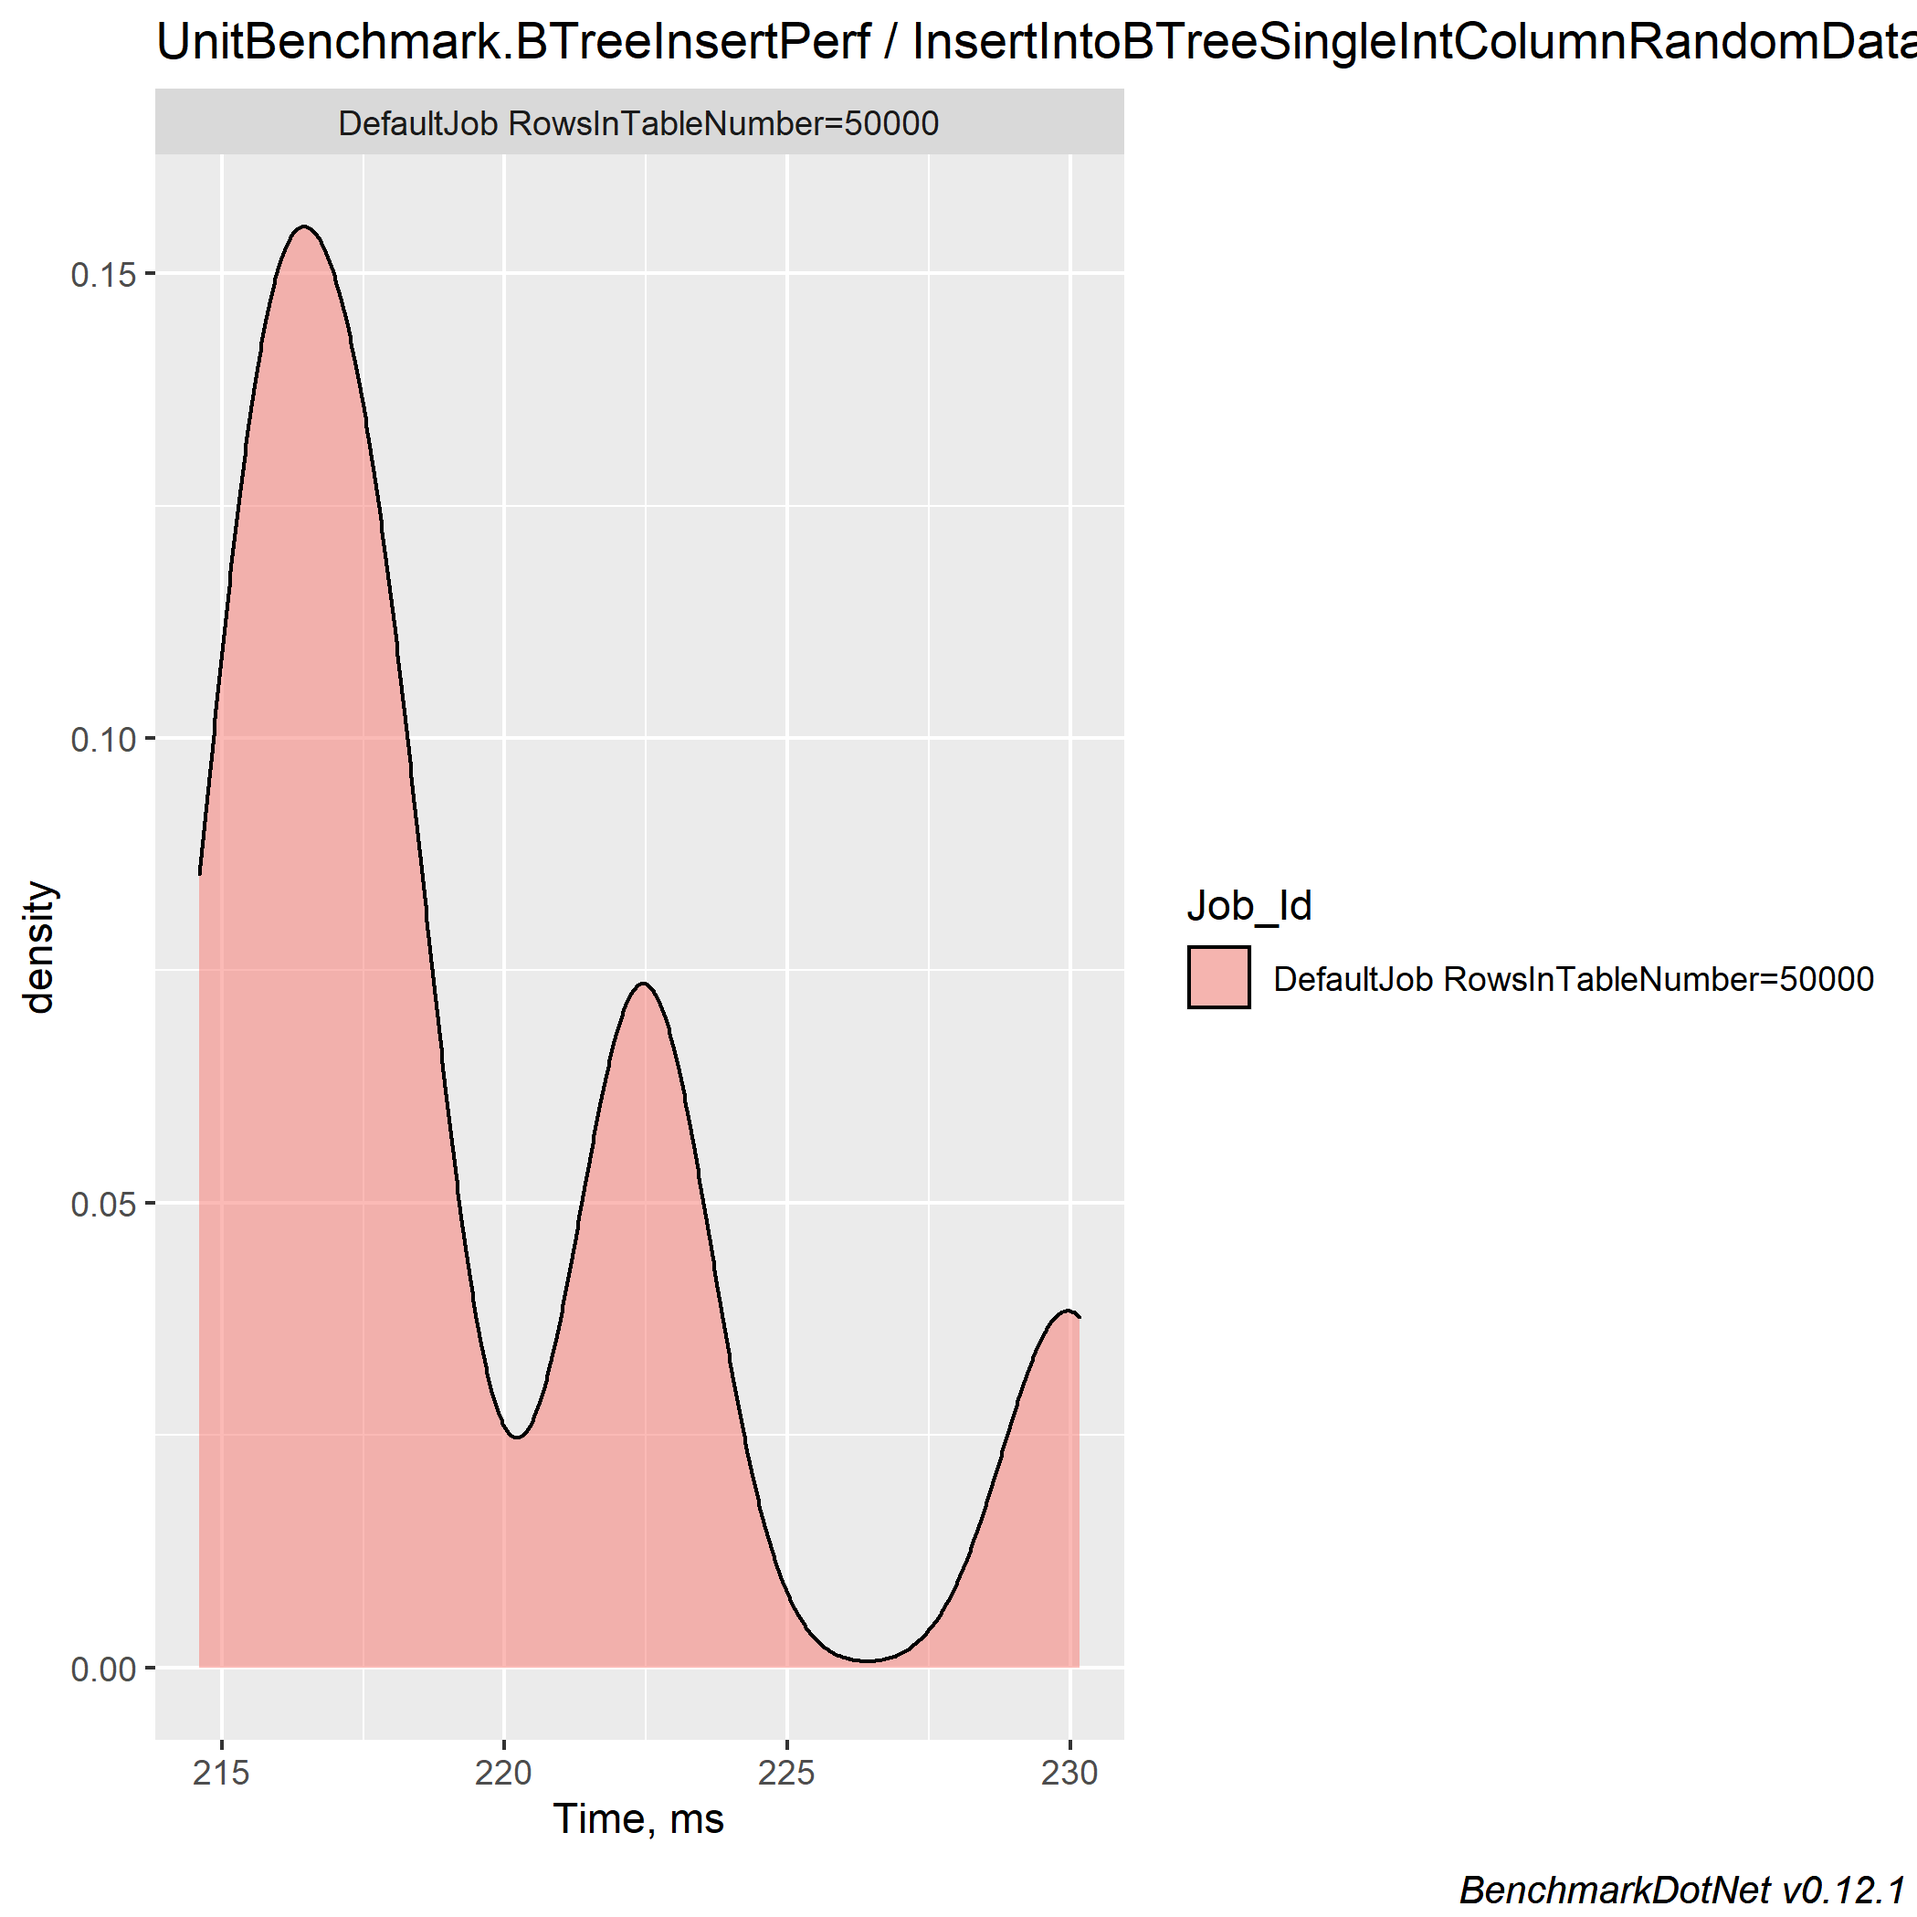
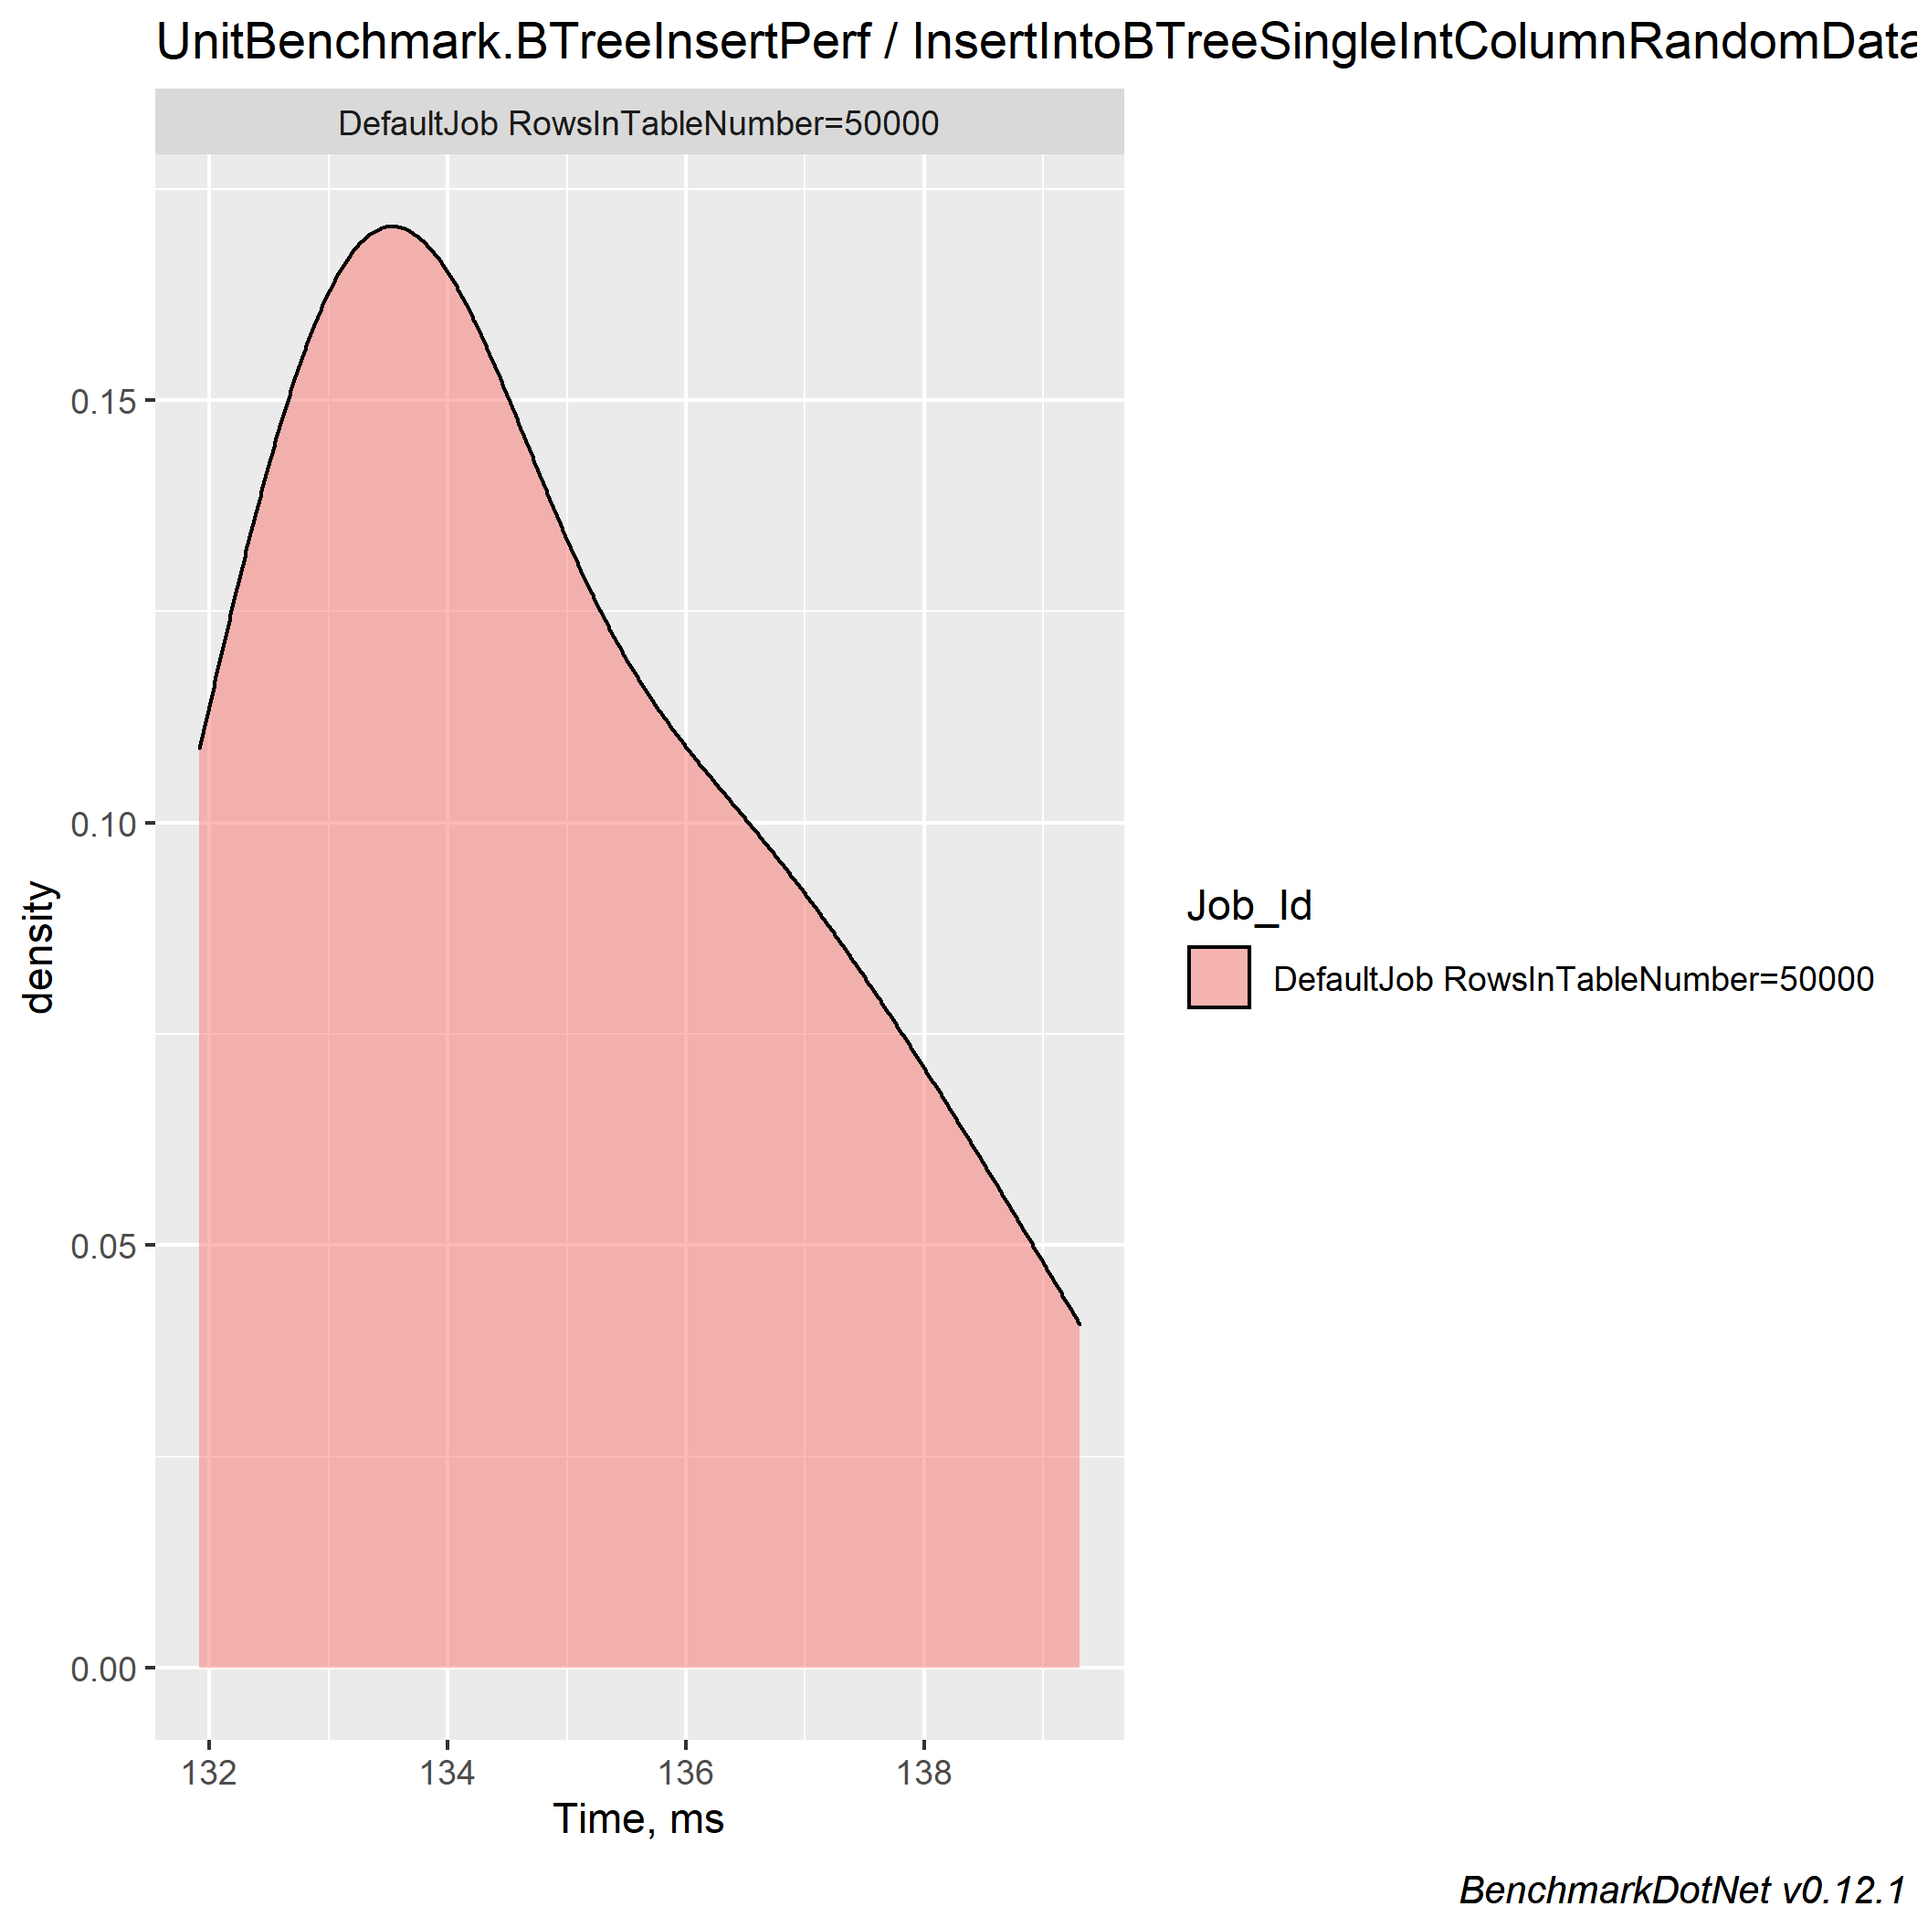
Insert ordered perf optim

diff --git a/UnitBenchmark/BenchmarkDotNet.Artifacts/results/UnitBenchmark.BTreeInsertPerf-report.html b/UnitBenchmark/BenchmarkDotNet.Artifacts/results/UnitBenchmark.BTreeInsertPerf-report.html
@@ -2,7 +2,7 @@
 <html lang='en'>
 <head>
 <meta charset='utf-8' />
-<title>UnitBenchmark.BTreeInsertPerf-20211211-191430</title>
+<title>UnitBenchmark.BTreeInsertPerf-20211212-161400</title>
 
 <style type="text/css">
 	table { border-collapse: collapse; display: block; width: 100%; overflow: auto; }
@@ -24,9 +24,9 @@ AMD Ryzen 5 1600X, 1 CPU, 12 logical and 6 physical cores
 <table>
 <thead><tr><th>                            Method</th><th>RowsInTableNumber</th><th>Mean</th><th>Error</th><th>StdDev</th>
 </tr>
-</thead><tbody><tr><td>InsertIntoBTreeSingleIntColumnRandomData</td><td>50000</td><td>219.4 ms</td><td>4.38 ms</td><td>4.68 ms</td>
-</tr><tr><td>InsertIntoBTreeSingleIntColumnRandomData</td><td>100000</td><td>487.0 ms</td><td>3.34 ms</td><td>2.79 ms</td>
-</tr><tr><td>InsertIntoBTreeSingleIntColumnRandomData</td><td>200000</td><td>1,200.3 ms</td><td>5.32 ms</td><td>4.45 ms</td>
+</thead><tbody><tr><td>InsertIntoBTreeSingleIntColumnRandomData</td><td>50000</td><td>134.7 ms</td><td>2.15 ms</td><td>2.21 ms</td>
+</tr><tr><td>InsertIntoBTreeSingleIntColumnRandomData</td><td>100000</td><td>315.2 ms</td><td>5.77 ms</td><td>5.12 ms</td>
+</tr><tr><td>InsertIntoBTreeSingleIntColumnRandomData</td><td>200000</td><td>868.2 ms</td><td>3.62 ms</td><td>3.39 ms</td>
 </tr></tbody></table>
 </body>
 </html>

diff --git a/PageManager/RowsetHolder.cs b/PageManager/RowsetHolder.cs
@@ -36,7 +36,8 @@ namespace PageManager
 
         private ushort rowCount;
 
-        private static readonly CompareWithRowHolderCreator compareWithRowHolderCreator = new CompareWithRowHolderCreator();
+        private static readonly CompareWithRowHolderCreator s_compareWithRowHolderCreator = new CompareWithRowHolderCreator();
+        private static readonly GetRowOrderedPosition s_getRowOrderedPosition = new GetRowOrderedPosition();
 
         public RowsetHolder(ColumnInfo[] columnTypes, Memory<byte> storage, bool init)
         {
@@ -108,11 +109,18 @@ namespace PageManager
             }
         }
 
-        public int CompareFieldWithRowHolder(int row, int col, RowHolder rh, ColumnInfo ci)
+        public static int CompareFieldWithRowHolder(int row, int col, RowHolder rh, ColumnInfo ci, RowsetHolder rs)
         {
             return ColumnTypeHandlerRouter<Func<int, int, RowHolder, ColumnInfo, RowsetHolder, int>>.Route(
-                compareWithRowHolderCreator,
-                ci.ColumnType)(row, col, rh, ci, this);
+                s_compareWithRowHolderCreator,
+                ci.ColumnType)(row, col, rh, ci, rs);
+        }
+
+        public static int InsertRowOrderedPosition(int col, RowHolder rh, ColumnInfo ci, RowsetHolder rs)
+        {
+            return ColumnTypeHandlerRouter<Func<int, RowHolder, RowsetHolder, int>>.Route(
+                s_getRowOrderedPosition,
+                ci.ColumnType)(col, rh, rs);
         }
 
         public void GetRow(int row, ref RowHolder rowHolder)
@@ -160,22 +168,9 @@ namespace PageManager
 #endif
 
             // find the first element that is bigger than one to insert.
-            // TODO: binary search here.
-            int positionToInsert = -1;
+            int positionToInsert = InsertRowOrderedPosition(comparisonField, rowHolderToInsert, columnTypes[comparisonField], this);
 
-            for (int i = 0; i < this.rowCount; i++)
-            {
-                if (this.CompareFieldWithRowHolder(i, comparisonField, rowHolderToInsert, columnTypes[comparisonField]) != -1)
-                {
-                    positionToInsert = i;
-                    break;
-                }
-            }
-
-            if (positionToInsert == -1)
-            {
-                positionToInsert = this.rowCount;
-            }
+            Debug.Assert(positionToInsert >= 0 && positionToInsert <= this.rowCount);
 
             if (BitArray.IsSet(positionToInsert, this.storage.Span))
             {
@@ -552,6 +547,42 @@ namespace PageManager
         }
 
         public Func<int, int, RowHolder, ColumnInfo, RowsetHolder, int> HandleString()
+        {
+            throw new NotImplementedException();
+        }
+    }
+
+    public class GetRowOrderedPosition: ColumnTypeHandlerBasicSingle<Func<int /* column */, RowHolder /* row holder to insert */, RowsetHolder, int>>
+    {
+        public Func<int, RowHolder, RowsetHolder, int> HandleDouble()
+        {
+            return (col, rh, rs) =>
+            {
+                if (rs.GetRowCount() == 0)
+                {
+                    return 0;
+                }
+
+                double fieldFromRowHolder = rh.GetField<double>(col);
+                return rs.BinarySearchFindOrBiggestSmaller<double>(fieldFromRowHolder, col, 0, rs.GetRowCount() - 1) + 1;
+            };
+        }
+
+        public Func<int, RowHolder, RowsetHolder, int> HandleInt()
+        {
+            return (col, rh, rs) =>
+            {
+                if (rs.GetRowCount() == 0)
+                {
+                    return 0;
+                }
+
+                int fieldFromRowHolder = rh.GetField<int>(col);
+                return rs.BinarySearchFindOrBiggestSmaller<int>(fieldFromRowHolder, col, 0, rs.GetRowCount() - 1) + 1;
+            };
+        }
+
+        public Func<int, RowHolder, RowsetHolder, int> HandleString()
         {
             throw new NotImplementedException();
         }

diff --git a/UnitBenchmark/BTreeInsertPerf.cs b/UnitBenchmark/BTreeInsertPerf.cs
@@ -11,7 +11,7 @@ using Test.Common;
 namespace UnitBenchmark
 {
     [RPlotExporter]
-    //[EtwProfiler(performExtraBenchmarksRun: true)]
+    [EtwProfiler(performExtraBenchmarksRun: true)]
     public class BTreeInsertPerf
     {
         [Params(50_000, 100_000, 200_000 /* 500_000, 1_000_000 */)]

diff --git a/UnitBenchmark/BenchmarkDotNet.Artifacts/results/UnitBenchmark.BTreeInsertPerf-report-github.md b/UnitBenchmark/BenchmarkDotNet.Artifacts/results/UnitBenchmark.BTreeInsertPerf-report-github.md
@@ -8,8 +8,8 @@ AMD Ryzen 5 1600X, 1 CPU, 12 logical and 6 physical cores
 
 
 ```
-|                                   Method | RowsInTableNumber |       Mean |   Error |  StdDev |
-|----------------------------------------- |------------------ |-----------:|--------:|--------:|
-| **InsertIntoBTreeSingleIntColumnRandomData** |             **50000** |   **219.4 ms** | **4.38 ms** | **4.68 ms** |
-| **InsertIntoBTreeSingleIntColumnRandomData** |            **100000** |   **487.0 ms** | **3.34 ms** | **2.79 ms** |
-| **InsertIntoBTreeSingleIntColumnRandomData** |            **200000** | **1,200.3 ms** | **5.32 ms** | **4.45 ms** |
+|                                   Method | RowsInTableNumber |     Mean |   Error |  StdDev |
+|----------------------------------------- |------------------ |---------:|--------:|--------:|
+| **InsertIntoBTreeSingleIntColumnRandomData** |             **50000** | **134.7 ms** | **2.15 ms** | **2.21 ms** |
+| **InsertIntoBTreeSingleIntColumnRandomData** |            **100000** | **315.2 ms** | **5.77 ms** | **5.12 ms** |
+| **InsertIntoBTreeSingleIntColumnRandomData** |            **200000** | **868.2 ms** | **3.62 ms** | **3.39 ms** |

diff --git a/UnitBenchmark/perf_diary/btree_perf_story.md b/UnitBenchmark/perf_diary/btree_perf_story.md
@@ -138,3 +138,11 @@ After ElementsExists optimization:
 | InsertIntoBTreeSingleIntColumnRandomData |             50000 |   219.4 ms | 4.38 ms | 4.68 ms |
 | InsertIntoBTreeSingleIntColumnRandomData |            100000 |   487.0 ms | 3.34 ms | 2.79 ms |
 | InsertIntoBTreeSingleIntColumnRandomData |            200000 | 1,200.3 ms | 5.32 ms | 4.45 ms |
+
+After insert with binary search:
+
+|                                   Method | RowsInTableNumber |     Mean |   Error |  StdDev |
+|----------------------------------------- |------------------ |---------:|--------:|--------:|
+| InsertIntoBTreeSingleIntColumnRandomData |             50000 | 134.7 ms | 2.15 ms | 2.21 ms |
+| InsertIntoBTreeSingleIntColumnRandomData |            100000 | 315.2 ms | 5.77 ms | 5.12 ms |
+| InsertIntoBTreeSingleIntColumnRandomData |            200000 | 868.2 ms | 3.62 ms | 3.39 ms |
